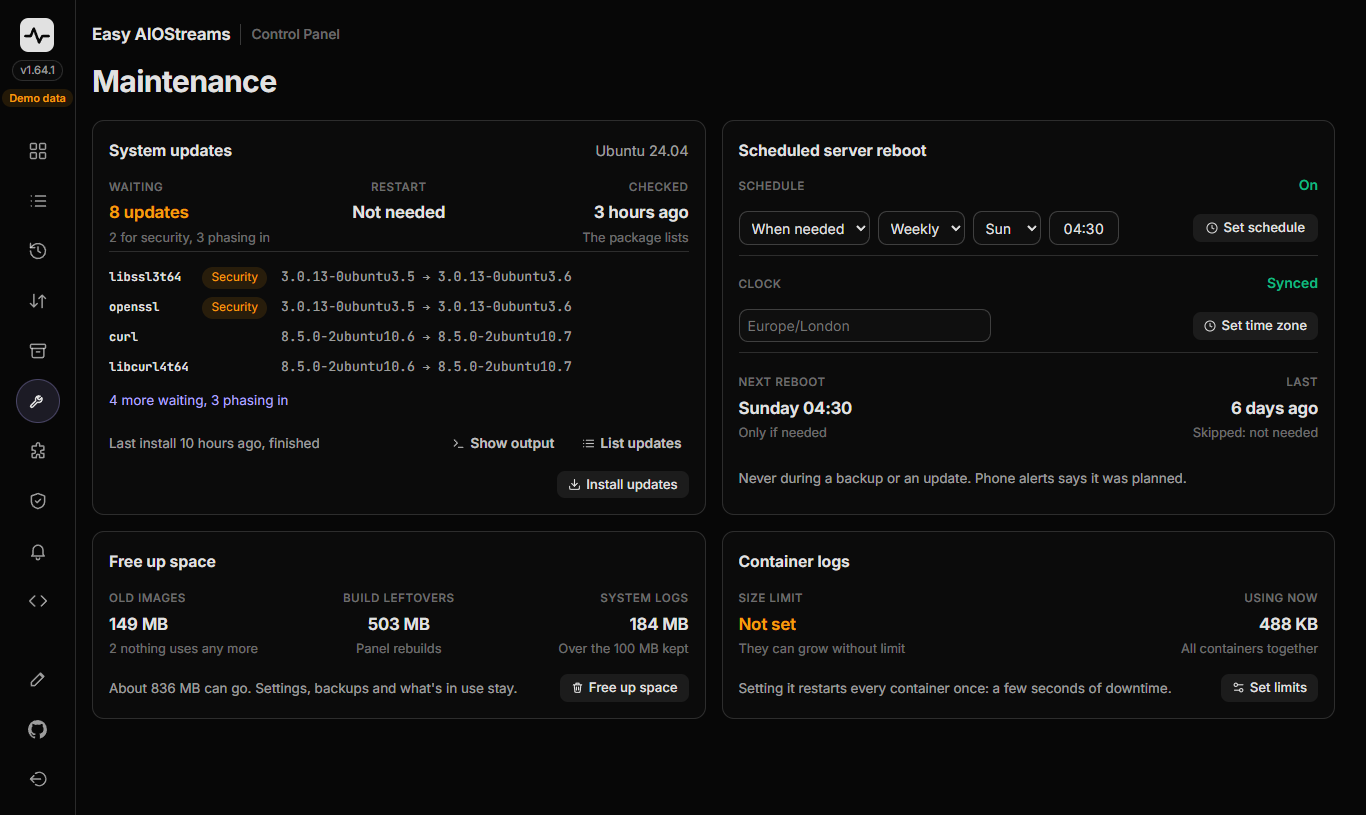
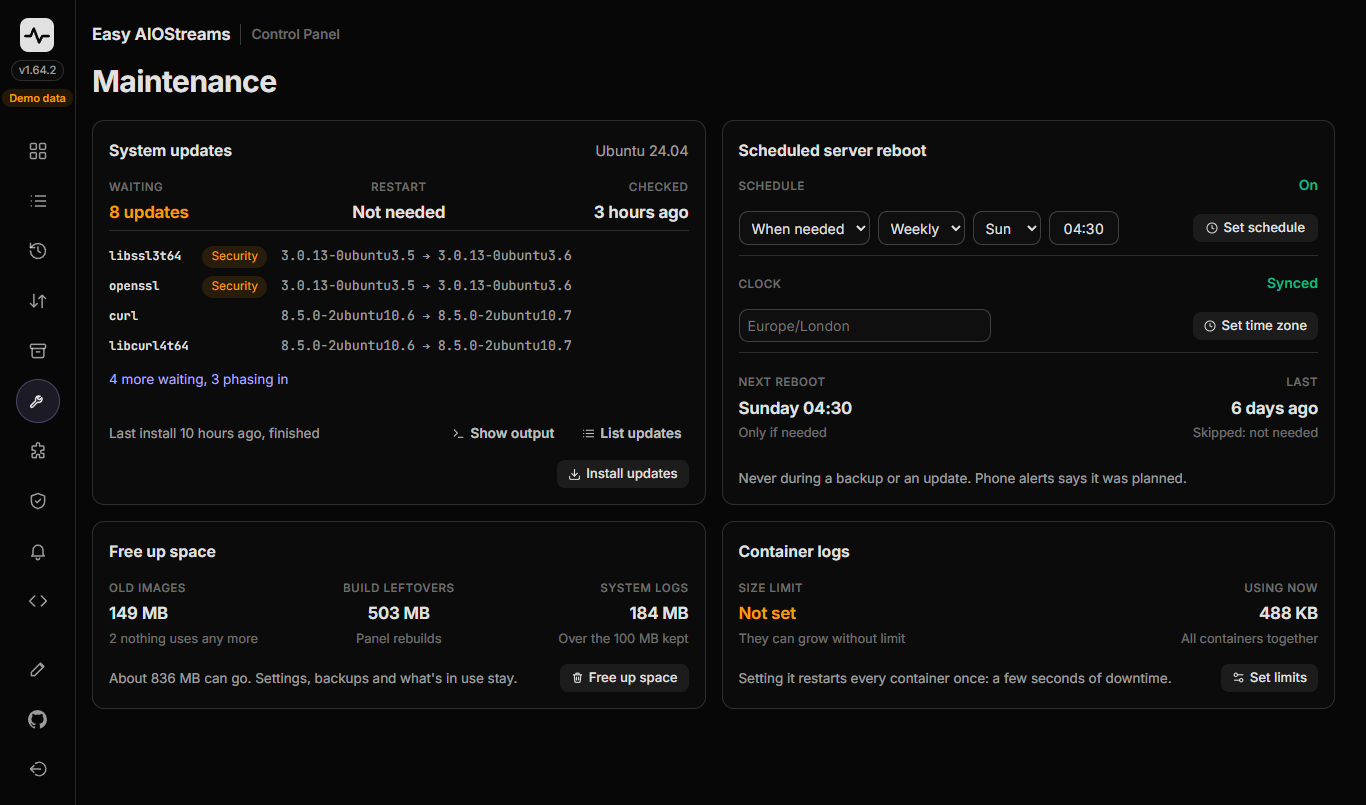
System updates: drop the lines under the update count and Checked
The list under the figures shows the same. Maintenance screenshot retaken.

diff --git a/control-panel/web/js/maint.js b/control-panel/web/js/maint.js
@@ -74,14 +74,22 @@ function updates(m) {
   if (!u.available) return card(["System updates", u.os], [stat("Waiting", "Can't tell", "This server doesn't use apt")], "", null);
   const pk = u.packages || [];
   const j = m.last && m.last.what === "Install updates" ? m.last : null;   // another job's output keeps its card at the page's foot
-  const c = card(["System updates", u.os], [
-    stat("Waiting", u.count ? `${u.count} update${u.count === 1 ? "" : "s"}` : "Up to date",
+  // The lines under Waiting ("2 for security, 3 phasing in") and Checked ("The package lists") are hidden by CSS:
+  // the list under the figures shows the same
+  const checked = stat("Checked", u.checked_at ? ago(u.checked_at) : "Unknown", "The package lists");
+  checked.classList.add("upd-checked");
+  const waiting = stat("Waiting", u.count ? `${u.count} update${u.count === 1 ? "" : "s"}` : "Up to date",
       (u.count ? (u.security ? `${u.security} for security` : "None for security") + (u.phased ? `, ${u.phased} phasing in` : "")
         : u.phased ? `${u.phased} more phasing in` : ""), u.security ? "warn" : u.count ? "" : "ok",
       u.phased ? `Ubuntu rolls some updates out gradually, a few servers at a time. ${u.phased} ${u.phased === 1 ? "isn't" : "aren't"} offered to this server yet, `
-        + "so Install updates leaves them until its turn, usually within days." : null),
+        + "so Install updates leaves them until its turn, usually within days." : null);
+  waiting.classList.add("upd-waiting");
+  // Its explanation sits on the figure too, for a desktop card without the line under it
+  if (u.phased) waiting.querySelector(".stat-value").title = waiting.querySelector(".ver-sub").title;
+  const c = card(["System updates", u.os], [
+    waiting,
     stat("Restart", u.reboot ? "Needed" : "Not needed", u.reboot ? "To finish installing updates" : "", u.reboot ? "warn" : ""),
-    stat("Checked", u.checked_at ? ago(u.checked_at) : "Unknown", "The package lists"),
+    checked,
   ], lastLine(j), button("maint.updates", u.count > 0),
   // The last install's output, in the same drawer
   j ? h("button", { class: "btn small maint-list maint-out", type: "button", text: "Show output",

diff --git a/control-panel/web/css/app.css b/control-panel/web/css/app.css
@@ -2162,6 +2162,10 @@ a.btn .ext { margin-left: 0; vertical-align: 0; }
   .fs-spread .stat-grid > .stat:nth-child(2) { text-align: center; }
   .fs-spread .stat-grid > .stat:last-child { text-align: right; }
 }
+/* System updates, on every screen: no line under the update count or Checked (the list shows the same), and an
+   empty line (Restart, Not needed) takes no room. The update count's explanation is on the figure's tooltip. */
+.fs-spread .stat.upd-checked .ver-sub, .fs-spread .stat.upd-waiting .ver-sub { display: none; }
+.fs-spread .stat .ver-sub:empty { display: none; }
 /* Desktop: each row's button says what it sets, and they share one width so they line up */
 .rs-desk .rs-ctl > .btn { min-width: 9.5em; }
 

diff --git a/CHANGELOG.md b/CHANGELOG.md
@@ -4,6 +4,7 @@ Notable changes to easy-aiostreams, newest first. Control panel versions are in 
 
 ## 22 November 2026
 
+- System updates no longer shows the lines under the update count and Checked, on computers and phones, since the list under the figures shows the same; the Maintenance screenshot in the guides is retaken. (Panel 1.64.2)
 - On a computer, This server's fourth column (Up for and HTTPS certificates) is right-aligned to the card's right edge under Reboot server, on Scripts an add-on that isn't downloaded has its Copy at the right edge of Optional add-ons, and a new install's Overview lists This server right after AIOStreams, before the add-ons (a layout you saved keeps its order). (Panel 1.64.2)
 - On a computer, Last on Scheduled server reboot and Using now on Container logs sit at the right edge of their cards, System updates and Free up space spread their three figures across their cards, and Set schedule on Scheduled backups is in the card's bottom right corner. The Maintenance and Backup & Restore screenshots in the guides are retaken. (Panel 1.64.1, [#216](https://github.com/alpinezx/easy-aiostreams/pull/216))
 - **Docs:** The Logs and Activity screenshots in the control panel guides are retaken for panel 1.64.0. ([#215](https://github.com/alpinezx/easy-aiostreams/pull/215))
